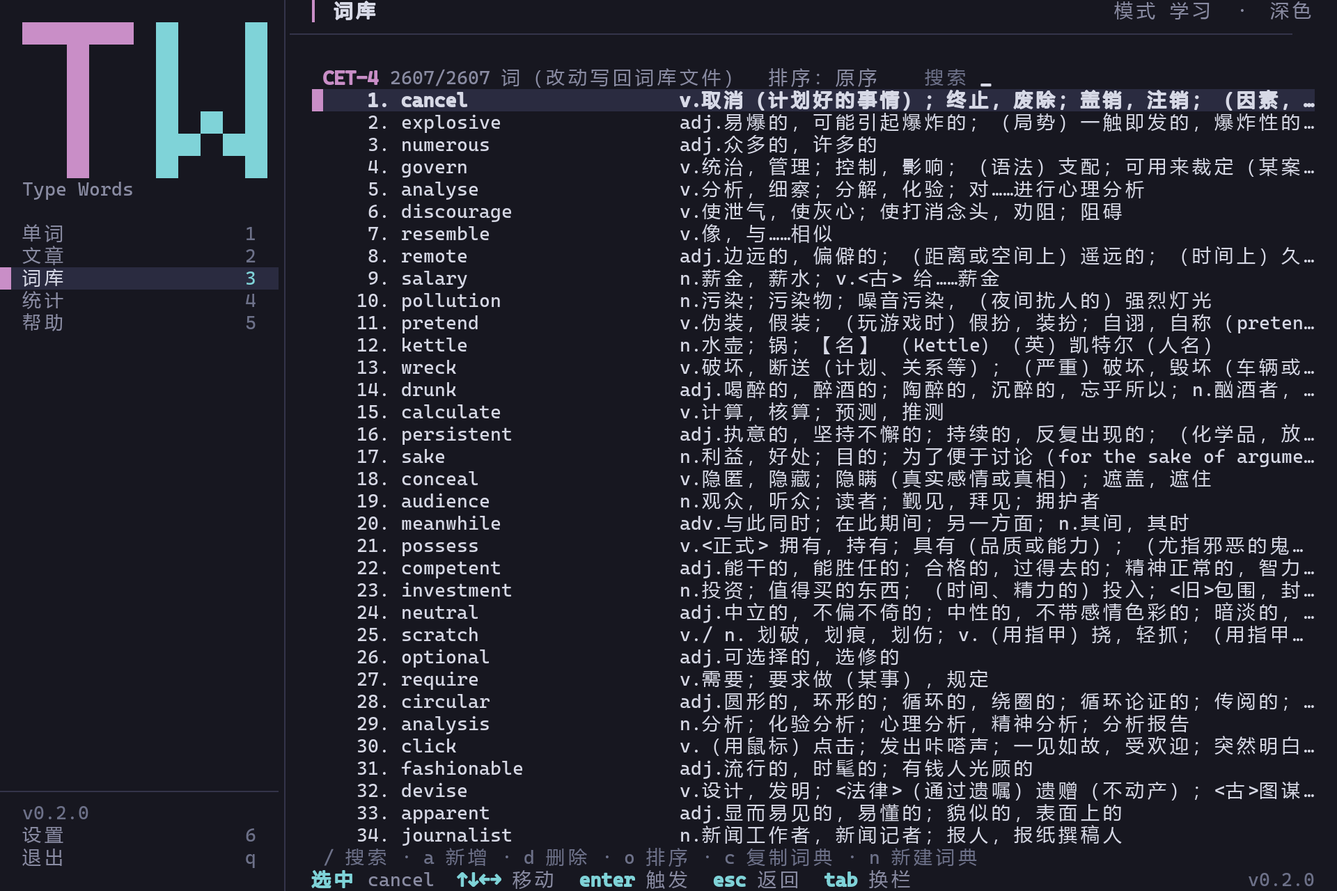
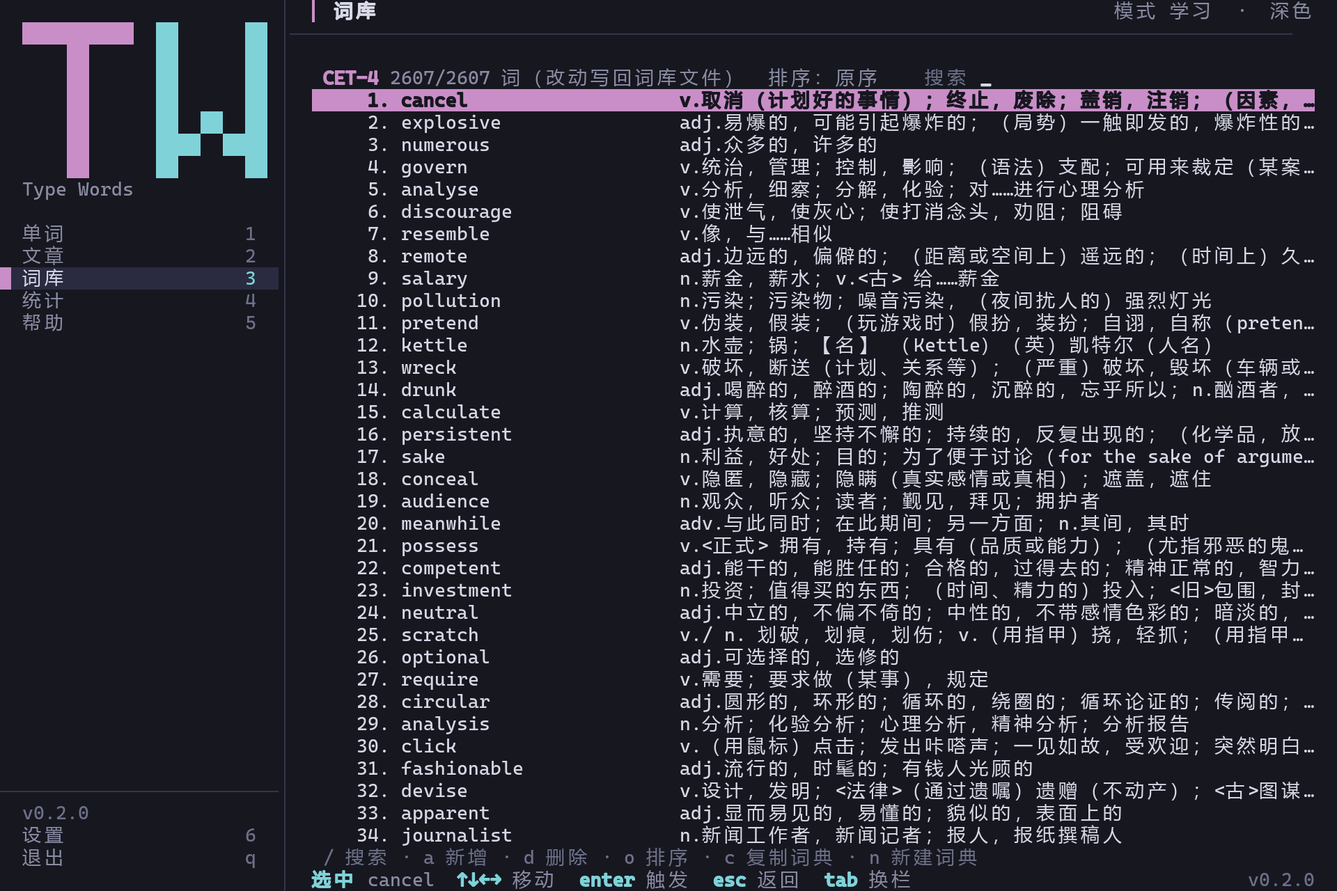
fix(tui): 页面内容区的当前选中项也整块高亮
上一版把所有标签页的焦点接进同一套两栏模型后，accent 整块高亮仍只在
导航栏与主页内容区生效；文章、词库等页面的选中行只有 ▶ 标记或很淡的
selection 底色（高对比主题下 selection 与背景同色），切过去看不出「当前
选中」是哪一个。

- ui::focus::focused_rect 对 FocusId::Page 改为返回页面当前选中项矩形：
  新增 page_selection_rect，按各页 layout 与页面光标解析词库行、设置行、
  文章 / 书本行、词条行、流程行、快捷键行、日历选中日（含记录点）。
- 高亮仍由 ui::mod 的 focus::paint 统一绘制，因此与主页 / 导航栏是同一套
  accent 底 + 反色文字；滚动、分栏、窗口缩放后矩形随 layout 重算，不会
  漂移。焦点进导航栏时页面高亮让位，页面自己的行标记 / 光标保留。
- 测试：focus_nav 增加页面行高亮与统计日期高亮断言（48 条），articles
  增加文章 / 书本行高亮与切栏跟随（22 条）；共 338 个测试。
- 文档与截图：usage / ui / development / README 同步「当前选中项一律整块
  强调色高亮」；受影响的 dict / articles / settings / stats / shortcuts /
  words / flows 截图重新生成。

验证：cargo fmt --all --check、cargo clippy --all-targets --locked -- -D
warnings、cargo test --locked 全绿。

Changed region(s): [[0.2188, 0.0938, 1.0, 0.125]]

diff --git a/src/ui/focus.rs b/src/ui/focus.rs
@@ -198,9 +198,116 @@ pub fn focused_target(app: &App, area: Rect) -> Option<Target> {
 }
 
 /// 当前焦点对应的矩形（用于整块高亮）。
+///
+/// 导航栏与主页内容区取目标自身的矩形；其它页面取「页面当前选中项」的
+/// 矩形（词库行 / 设置行 / 文章 / 书本行 / 词条行 / 流程行 / 快捷键行 /
+/// 日历日期），同样用整块 accent 高亮，与主页保持同一套选中语言。
 pub fn focused_rect(app: &App, area: Rect) -> Option<Rect> {
     pane(app)?;
-    focused_target(app, area).map(|target| target.rect)
+    match app.focus? {
+        FocusId::Page => page_selection_rect(app, area),
+        _ => focused_target(app, area).map(|target| target.rect),
+    }
+}
+
+/// 非主页内容区的选中项矩形；页面没有可高亮的选中项（帮助页 / 按词典
+/// 视图）时返回 None。
+///
+/// 绘制用的行矩形统一由各页面的 layout 计算，和 targets / 渲染同源，
+/// 因此高亮不会随滚动或分栏变化而漂移。
+fn page_selection_rect(app: &App, area: Rect) -> Option<Rect> {
+    let shell = shell::layout(area, Nav::from_screen(app.screen));
+    let content = shell.content;
+    match app.screen {
+        Screen::DictPicker => {
+            let layout = crate::ui::dict_picker::layout(app, content);
+            let (_, rect) = layout
+                .rows
+                .iter()
+                .find(|(index, _)| *index == app.dict_cursor)?;
+            Some(row_rect(*rect, 1))
+        }
+        Screen::Settings => {
+            let layout = crate::ui::settings::layout(app, content);
+            let (_, rect) = layout
+                .rows
+                .iter()
+                .find(|(entry, _)| *entry == Some(app.settings_cursor))?;
+            Some(row_rect(*rect, 1))
+        }
+        Screen::Shortcuts => {
+            let layout = crate::ui::shortcuts::layout(app, content);
+            let (_, rect) = layout
+                .rows
+                .iter()
+                .find(|(index, _)| *index == app.shortcut_cursor)?;
+            Some(*rect)
+        }
+        Screen::Words => {
+            let layout = crate::ui::words::layout(app, content);
+            let total = app.filtered_word_indices().len();
+            if total == 0 || app.words_cursor >= total || layout.list.height == 0 {
+                return None;
+            }
+            let row = app.words_cursor.saturating_sub(layout.offset) as u16;
+            let y = layout.list.y.saturating_add(row);
+            (y < layout.list.bottom()).then(|| Rect::new(layout.list.x, y, layout.list.width, 1))
+        }
+        Screen::Flows => {
+            let layout = crate::ui::flows::layout(app, content);
+            if app.flow_cursor >= app.flow_entries().len() || layout.list.height == 0 {
+                return None;
+            }
+            let y = layout.list.y.saturating_add(app.flow_cursor as u16);
+            (y < layout.list.bottom()).then(|| Rect::new(layout.list.x, y, layout.list.width, 1))
+        }
+        Screen::Articles => {
+            let layout = crate::ui::articles::layout(content);
+            let (pane, cursor, count) = if app.article_pane_left {
+                (
+                    layout.books,
+                    app.article_book_cursor,
+                    app.article_books.len(),
+                )
+            } else {
+                (layout.articles, app.article_cursor, app.article_list.len())
+            };
+            if count == 0 || cursor >= count || pane.width < 2 || pane.height < 3 {
+                return None;
+            }
+            // 列表有边框：行从边框内侧开始，最后一行同样让出下边框。
+            let y = pane.y.saturating_add(1).saturating_add(cursor as u16);
+            if y >= pane.bottom().saturating_sub(1) {
+                return None;
+            }
+            Some(Rect::new(
+                pane.x.saturating_add(1),
+                y,
+                pane.width.saturating_sub(2),
+                1,
+            ))
+        }
+        Screen::Stats => {
+            // 按词典视图没有日历选中项；日历视图高亮选中那一天（含记录点）。
+            if app.stats_by_dict {
+                return None;
+            }
+            let target = crate::ui::stats::targets(app, content)
+                .into_iter()
+                .find(|target| match &target.action {
+                    Action::StatsSelectDay(date) => *date == app.stats_day,
+                    _ => false,
+                })?;
+            let width = 5.min(content.right().saturating_sub(target.rect.x));
+            (width > 0).then(|| Rect::new(target.rect.x, target.rect.y, width, 1))
+        }
+        _ => None,
+    }
+}
+
+/// 缩到行内、并让出右侧的滚动指示列（词库页 / 设置页用）。
+fn row_rect(rect: Rect, reserved_right: u16) -> Rect {
+    Rect::new(rect.x, rect.y, rect.width.saturating_sub(reserved_right), 1)
 }
 
 /// 当前焦点的提示文案（底栏「选中 X」）。

diff --git a/tests/focus_nav.rs b/tests/focus_nav.rs
@@ -850,6 +850,15 @@ fn stats_arrows_scroll_and_pick_dates() {
     let (_fixture, mut app) = test_app(WIDE);
     press(&mut app, KeyCode::Char('4'));
     assert_eq!(focus::pane(&app), Some(Pane::Content));
+    // 日历里选中的那一天同样有整块高亮。
+    let theme = app.theme();
+    let day_rect = focus::focused_rect(&app, app.viewport).expect("日历选中日应有高亮矩形");
+    let buffer = buffer_of(&app, WIDE);
+    assert_eq!(
+        buffer.cell((day_rect.x, day_rect.y)).expect("cell").bg,
+        theme.accent,
+        "日历选中日应整块 accent 高亮"
+    );
     let max_scroll = typewords_tui::ui::stats::body_line_count(&app).saturating_sub(1) as u16;
     assert!(max_scroll >= 1);
     press(&mut app, KeyCode::Down);
@@ -974,6 +983,42 @@ fn mouse_click_on_page_syncs_focus() {
         app.viewport,
     );
     assert_eq!(focus::pane(&app), Some(Pane::Nav));
+}
+
+/// 非主页的页面内容区：当前选中行同样用整块 accent 高亮；焦点进导航栏后
+/// 页面行让位给导航项，回到内容区再恢复。
+#[test]
+fn page_focus_highlights_the_selected_row() {
+    for key in [KeyCode::Char('3'), KeyCode::Char('s')] {
+        let (_fixture, mut app) = test_app(WIDE);
+        press(&mut app, key);
+        let theme = app.theme();
+        let rect = focus::focused_rect(&app, app.viewport).expect("页面选中行应有高亮矩形");
+        let buffer = buffer_of(&app, WIDE);
+        let mut previous_width = 1usize;
+        for x in rect.x..rect.right() {
+            if previous_width == 2 {
+                // CJK 宽字符的续接单元由前一个宽字形覆盖，测试后端保留默认样式。
+                previous_width = 1;
+                continue;
+            }
+            let cell = buffer.cell((x, rect.y)).expect("cell");
+            previous_width = UnicodeWidthStr::width(cell.symbol());
+            assert_eq!(
+                cell.bg, theme.accent,
+                "{key:?} 页面选中行应整块 accent 高亮（x={x}）"
+            );
+        }
+
+        press(&mut app, KeyCode::Tab);
+        assert_eq!(focus::pane(&app), Some(Pane::Nav));
+        let buffer = buffer_of(&app, WIDE);
+        let cell = buffer.cell((rect.x + 1, rect.y)).expect("cell");
+        assert_ne!(
+            cell.bg, theme.accent,
+            "{key:?} 导航栏聚焦时页面行不应继续整块高亮"
+        );
+    }
 }
 
 /// 帮助页的「任意键返回」仍然优先：不在练习中时按数字键也返回，不切页。

diff --git a/tests/articles.rs b/tests/articles.rs
@@ -6,6 +6,7 @@ use ratatui::Terminal;
 use ratatui::backend::TestBackend;
 use ratatui::buffer::Buffer;
 use ratatui::crossterm::event::{KeyCode, KeyEvent, KeyModifiers};
+use ratatui::layout::Rect;
 use ratatui::style::Modifier;
 use typewords_tui::app;
 use unicode_width::UnicodeWidthStr;
@@ -169,6 +170,45 @@ fn install_article_assets(assets_root: &std::path::Path) {
             .join("NCE_1.json"),
     )
     .expect("复制文章资源");
+}
+
+/// 文章页的选中行要有可见高亮：书本栏选中整块 accent，切到文章栏后
+/// 高亮跟着移动到右侧。
+#[test]
+fn the_selected_row_is_highlighted_on_the_articles_page() {
+    let fixture = common::Fixture::new();
+    install_article_assets(&fixture.assets());
+    let mut app = app::build_for_test(fixture.paths(), fixture.cli()).unwrap();
+    app.set_viewport(Rect::new(0, 0, 120, 40));
+    press(&mut app, KeyCode::Char('a'));
+    assert_eq!(app.screen, app::Screen::Articles);
+
+    let theme = app.theme();
+    let book_rect = typewords_tui::ui::focus::focused_rect(&app, app.viewport)
+        .expect("书本栏选中行应有高亮矩形");
+    let buffer = render_buffer(&app, 120, 40);
+    let mut previous_width = 1usize;
+    for x in book_rect.x..book_rect.right() {
+        if previous_width == 2 {
+            // CJK 宽字符的续接单元由前一个宽字形覆盖，测试后端保留默认样式。
+            previous_width = 1;
+            continue;
+        }
+        let cell = buffer.cell((x, book_rect.y)).expect("cell");
+        previous_width = UnicodeWidthStr::width(cell.symbol());
+        assert_eq!(
+            cell.bg, theme.accent,
+            "书本栏选中行应整块 accent 高亮（x={x}）"
+        );
+    }
+
+    press(&mut app, KeyCode::Right);
+    let article_rect = typewords_tui::ui::focus::focused_rect(&app, app.viewport)
+        .expect("文章栏选中行应有高亮矩形");
+    assert!(
+        article_rect.x >= book_rect.right(),
+        "切到文章栏后高亮应移到右侧：{article_rect:?} vs {book_rect:?}"
+    );
 }
 
 #[test]

diff --git a/docs/ui.md b/docs/ui.md
@@ -145,7 +145,7 @@ ui::render(app, frame)
 
 - **适用范围**：主页、文章、词库、统计、设置、词条管理、流程、快捷键、帮助九类页面共用同一套两栏焦点；练习页与文章跟打页是全屏页面，不画侧栏，不参与；单词测试页是专用答题页，键位由键位表单独处理（`ui::focus::supports_focus` 决定）。练习会话进行中（含练习里打开的整屏帮助）、有弹层、词条搜索框正在输入时，焦点导航整体让位。
 - **焦点身份**：`App.focus: Option<ui::focus::FocusId>`。`FocusId::Nav(NavId)` 是导航栏条目；`FocusId::Content(ContentId)` 是主页内容区的 8 个固定元素；`FocusId::Page` 是其它页面的内容区——页面自己的光标（词库行、设置行、文章 / 书本行、词条行、流程行、快捷键行、日历日期、滚动位置）就是身份，由页面状态保存，不需要再存下标。`App.last_content_focus: Option<ContentId>` 只服务主页内容区。导航栏含宽屏底部「退出」（`NavId::Quit`），窄屏顶栏没有这一项。身份定义在 `src/ui/target.rs`，解析与移动规则在 `src/ui/focus.rs`，状态迁移在 `src/app/focus.rs`。
-- **目标来源**：两栏都与鼠标命中同源。`ui::focus::nav_targets` 取 `shell::layout` 的 `nav_targets`（`Nav::MAIN` + 设置）再追加 `quit_target`（宽屏「退出」）；`ui::focus::content_targets` 取 `ui::home::targets(app, shell.content)` 的 8 项，每项都带 `ContentId` 与中文 `label`。其它页面的内容区没有独立矩形，选中效果由页面自己的行高亮 / 光标提供。
+- **目标来源**：两栏都与鼠标命中同源。`ui::focus::nav_targets` 取 `shell::layout` 的 `nav_targets`（`Nav::MAIN` + 设置）再追加 `quit_target`（宽屏「退出」）；`ui::focus::content_targets` 取 `ui::home::targets(app, shell.content)` 的 8 项，每项都带 `ContentId` 与中文 `label`。其它页面的内容区不注册逐行身份：`ui::focus::page_selection_rect` 按页面自己的光标与 layout 直接解析当前选中项的矩形，所以高亮与滚动、分栏、窗口尺寸同源。
 - **默认选中**：`App::set_screen` 是所有切屏路径的唯一入口（导航、返回、结算、退出练习……），切屏时清空旧焦点并按目标页调用 `App::focus_default`：主页选中 `ContentId::Start`（开始 / 继续学习）；其它套外壳页面选中 `FocusId::Page`（页面自己的内容区）；练习页 / 文章跟打页 / 单词测试页保持无焦点。因此进入任何标签页后方向键都立刻作用在页面内容上，底栏显示「选中 X」，再按 `←` / `Tab` 才进导航栏。
 - **统一的键 × 栏 × 结果**（宽屏指 `>= 100` 列；到边停、不回绕；有弹层时方向键属于弹层）：
 
@@ -162,7 +162,7 @@ ui::render(app, frame)
 - **跨栏只发生在到边之后**：`App::move_focus` 先尝试栏内移动，返回 `None`（该方向没有目标）才判断是否换栏——宽屏内容区 `←`、窄屏内容区 `↑` 进导航栏，宽屏侧栏 `→`、窄屏顶栏 `↓` 回内容区；其余方向到边就停。回内容区时主页恢复 `last_content_focus`（仍存在时），否则落「开始 / 继续学习」；其它页面恢复页面自己的光标（页面状态本来就在）。进导航栏落当前页面对应的入口（例如词库页落「词库」），找不到则第一项。`Tab` / `Shift+Tab` 在任何套外壳页面都能直接换栏，给统计这类横向键被页面占用的页面留一条固定通路。
 - **为什么不用固定顺序**：早期按「动作优先级」排序并回绕（到头绕回另一端），移动顺序与画面方向无关——`↓` 会从右下角跳回右上角，跨栏后还会清空选中。现在顺序由几何与页面光标决定、到边停。
 - **失效与触发**：导航栏与主页内容区的 `Enter` 按当前 `viewport` 重新解析身份；解析不到（窗口缩放后元素消失、模式名变长把标签挤掉）只清空焦点并 Toast「选中项已随布局变化失效，请重新选择」，绝不回退成开始练习。`FocusId::Page` 不依赖几何，页面光标始终有效。焦点元素的 `Action` 就是鼠标点击同一个 `Target` 会执行的 `Action`；落在导航栏当前页入口上时给 Info Toast「已在「X」页」，避免「按了没反应」。其它页面 `Enter` 走页面自己的激活逻辑（词库设为当前、设置修改、文章开始跟打、词条编辑、快捷键改绑、流程启用、统计切视图、帮助返回）。
-- **高亮**：`ui::focus::paint` 把导航栏目标的整个矩形铺成 `accent` 底 + `bg` 文字 + 加粗，画在页面内容之上、弹层遮罩之下；主页内容区同样是整块 `accent`。其它页面的内容区选中效果由页面自己的行高亮 / 光标提供（`selection` 底、`▶` 标记、日历选中日），不再叠加一层焦点色块，避免盖住行内的颜色语义。侧栏「当前页」用 `selection` 底 + 左侧 1 列 `accent` 条，与焦点高亮可以同屏共存。
+- **高亮**：`ui::focus::paint` 把当前焦点目标的整个矩形铺成 `accent` 底 + `bg` 文字 + 加粗，画在页面内容之上、弹层遮罩之下。导航栏、主页内容区、以及其它页面内容区的当前选中项（词库行 / 设置行 / 文章或书本行 / 词条行 / 流程行 / 快捷键行 / 日历选中日）都走这同一套高亮；焦点进导航栏时页面行让位给导航项，页面自己的行高亮 / 光标仍在底下可见。侧栏「当前页」用 `selection` 底 + 左侧 1 列 `accent` 条，与焦点高亮可以同屏共存。
 - **底栏联动**：`ui::focus::focused_label` 返回 `String`：导航栏取页面名，主页取按钮名（`Target.label`），其它页面取页面当前选中项（词库名 / 设置项名 / 文章标题 / 词条 / 流程名 / 快捷键动作名 / 统计日期 / 「帮助」）。有焦点时 `shell::focus_hints` 把底栏换成「选中 {label}  ↑↓←→ 移动  enter 触发 / 切换  esc 取消 / 返回  tab 换栏」（`tab` 在末尾，底栏太窄时先被丢弃）；无焦点时恢复常规快捷键提示。开始按钮的 `label` 与按钮文案统一由 `home::primary_label` 决定（有断点缓存或已学词时都是「继续学习」）。
 - **Esc 的语义**：主页 `Esc` 取消选中回到「无焦点」；其它页面 `Esc` 是返回上一层（与改造前一致），导航栏焦点上按 `Esc` 同样返回。
 - **鼠标**：点击导航栏会把焦点同步到对应导航项；点击内容区会把焦点交给页面内容区（`FocusId::Page`）；主页点击可聚焦元素还会写 `last_content_focus`，点空白清空焦点。见第 11 节。
@@ -269,7 +269,7 @@ ui::render(app, frame)
 - 内容宽度 `>= DETAIL_MIN_WIDTH(72)` 时左右分栏：列表占 58%，之后 1 列分隔线，右侧详情；否则只画列表。
 - 列表从标题下空一行开始；`scroll_offset = cursor.min(total-1).saturating_sub(visible-1)`，保证光标在可视区内。行首标记：当前词库 `●`（`accent`）、选中 `▶`（`accent_alt`）；名称后可选显示 id（`name_space >= 18 && inner_width >= 40`），右侧是 6/4 格细进度条、`N 词`、百分比；列表被裁切时最右列画 `↑`/`↓`。
 - 详情面板：名称（当前带 `●`）、id · 分类、简介折行、标签、词数、进度条、每日词数说明（当前/已拥有/未拥有三种文案），底部「Enter 设为当前」按钮（内宽 `>= 12` 且内高 `>= 2` 才画）。
-- `targets`：每个可见行一个 target——光标所在行是 `ActivateDict(index)`，其它行是 `SelectDict(index)`（第一次点击选中、再次点击激活）；按钮是 `ActivateDict(dict_cursor)`。截图见 [词库页](screenshots/dict-120x40-dark.png)。
+- `targets`：每个可见行一个 target——光标所在行是 `ActivateDict(index)`，其它行是 `SelectDict(index)`（第一次点击选中、再次点击激活）；按钮是 `ActivateDict(dict_cursor)`。键盘焦点在内容区时，光标行由 `ui::focus::page_selection_rect` 解析成整块 `accent` 高亮（与主页一致）；焦点在侧栏时恢复页面自己的 `selection` 底 + 左侧强调条。截图见 [词库页](screenshots/dict-120x40-dark.png)。
 
 ### 8.2 统计页（stats.rs）
 
@@ -293,7 +293,7 @@ ui::render(app, frame)
 
 ### 8.5 文章背诵页与跟打页（articles.rs）
 
-- 列表页（`render_articles`）套外壳（`Nav::Articles`）：左「书本」、右「文章」两栏（38% / 其余，右栏至少 20 列），行首 `▶` 为选中项；文章行显示标题、句数与断点标记「· 上次第 N 句」（`accent_alt`）。`targets` 给两个列表的可见行注册点击目标，滚轮映射为 `ArticleBookMove`。键盘焦点进页在内容区（左栏书本）：`↑`/`↓` 选书本、`→` 切到文章栏、`←` 从文章栏回书本栏（已在左栏再按 `←` 进侧栏），`Enter` 开始选中的文章；`Tab` 是导航栏 ↔ 内容区换栏。
+- 列表页（`render_articles`）套外壳（`Nav::Articles`）：左「书本」、右「文章」两栏（38% / 其余，右栏至少 20 列），行首 `▶` 为选中项；文章行显示标题、句数与断点标记「· 上次第 N 句」（`accent_alt`）。`targets` 给两个列表的可见行注册点击目标，滚轮映射为 `ArticleBookMove`。键盘焦点进页在内容区（左栏书本）：`↑`/`↓` 选书本、`→` 切到文章栏、`←` 从文章栏回书本栏（已在左栏再按 `←` 进侧栏），`Enter` 开始选中的文章；`Tab` 是导航栏 ↔ 内容区换栏。当前栏的选中行由 `ui::focus::page_selection_rect` 整块 `accent` 高亮，切栏时高亮跟着移动；另一个栏的 `▶` 只表示它自己的光标位置。
 - 跟打页（`render_article_practice`）全屏、不套外壳，纵向分四段：状态行（标题 `accent` + 第 N/M 句 + 已完成 / 错误 / 用时；错误数把当前句已出现的错误也算进去）、「跟打」区块、「当前句译文」区块、两行提示。`article_lines` 把整篇文章按段落折行成同一页的行列表（段落之间空一行），`cursor_line` 找出光标所在行，视口据此滚动；`offset` 只在渲染期计算，不写 `App` 状态。
 - 逐字符着色：非跟打字符（标点、符号与多余空白）在当前句用 `dim`、已完成句用 `muted`、未来句用 `fg`；词间空格是可选目标，光标会停在待输入的空格上，但直接打下一个字母也不算错；当前句里已输入且正确的字符 `good`，打错的字符 `bad` 并显示实际按下的字符——错误只会出现在字母 / 数字位置（省略空格时自动补成正确输入，不再有「空格处错字」与下划线样式，渲染里也不再有 `Modifier::UNDERLINED` 分支）；光标位置（第一个未输入字符）用 `selection` 背景 + BOLD；当前句首行行首是 `▶ `（`accent`）标记，其它行补两个空格对齐。`article_lines` 折行时行尾空格直接丢掉：空格可省略且总按正确输入显示，折掉不会藏起错误标记。
 - 底部第一行平时提示「 字母、数字照打 · 空格可省略 · 标点不用打 · Backspace 退格」（`dim`；58 列，60 列最小终端下可完整显示）；本句出现过错误时换成「 红色 = 打错的字符 · Backspace 改正」（`warn`）。该页不注册鼠标目标，只用键盘。截图见 [文章跟打](screenshots/articlepractice-120x40-dark.png)。

diff --git a/docs/usage.md b/docs/usage.md
@@ -215,7 +215,7 @@ tw --seed 42 --reset-practice       # 复现问题时清掉断点缓存
     - **宽屏侧栏**：`↑` / `↓` 逐项选择（含底部「退出」），`→` 回内容区。**窄屏顶栏**：`←` / `→` 逐标签选择，`↓` 回内容区。跨栏时页面自己的光标原样保留；主页会恢复上次在内容区选中的元素。
     - **没有选中时**（仅主页：按 `Esc` 或点击空白取消选中后）：`↓` / `→` 落在「开始 / 继续学习」，`↑` / `←` 进导航栏。
     - `Enter` 触发选中项（等同鼠标点击；主页没有选中时仍是开始 / 继续学习）。导航栏与主页的选中项随窗口缩放失效（按钮消失、模式名变长把标签挤掉）时，`Enter` 只清空选中并提示，不会开始练习；`Esc` 在主页取消选中，在其它页面返回上一层。
-    - 底栏在有选中时换成「选中 X  ↑↓←→ 移动  enter 触发 / 切换  esc 取消 / 返回  tab 换栏」；导航栏与主页内容区用整块强调色高亮，其它页面沿用页面自己的行高亮 / 光标。
+    - 底栏在有选中时换成「选中 X  ↑↓←→ 移动  enter 触发 / 切换  esc 取消 / 返回  tab 换栏」；当前选中项一律用整块强调色高亮（导航栏、主页按钮、词库行、设置行、文章行、日历日期……）。焦点进导航栏时高亮在导航项上，页面原来的行标记 / 光标仍保留。
     - 鼠标点击导航栏或内容区会把键盘选中同步过去（主页点空白清空选中）。
 
 窗口高度不足时依次收起「推荐」「我的词典」；宽度不足时隐藏「本周学习记录」。
@@ -576,7 +576,7 @@ tw --seed 42 --reset-practice       # 复现问题时清掉断点缓存
 - **滚轮**：词库页 / 设置页移动光标，统计页滚动最近记录，帮助页滚动快捷键列表，词条管理页 / 快捷键页 / 流程页 / 文章页滚动列表；练习页与主页忽略滚轮。
 - **弹层**：模式选择、收藏到指定词典、词条编辑三个弹层可点列表项（点弹层外不关闭）；确认弹层点击按钮生效、点击弹层外取消；输入弹层点击弹层外取消（内部点击无动作，用 `Enter` / `Esc`）；结算弹层只响应三个按钮。
 - **帮助页**：正文只读，点击内容区不会退出页面；右侧的 `↑` / `↓` 指示器可点，点了是滚动。返回用 `Esc` 或其它键盘按键（练习中回练习页，其它页面回主页），也可以点侧栏 / 顶栏导航切页。
-- **键盘焦点**：所有左侧标签页（主页 / 文章 / 词库 / 统计 / 设置 / 词条 / 流程 / 快捷键 / 帮助）共用两栏焦点。宽屏是「左侧导航栏 ↔ 右侧内容区」，导航栏竖向（`↑` / `↓` 选项、`→` 回内容区）；窄屏没有侧栏，导航栏就是顶栏的页面标签，横向（`←` / `→` 选标签、`↓` 回内容区）。`Tab` / `Shift+Tab` 在任何页面都能换栏。内容区里 `↑` / `↓` 移动页面自己的光标（主页按视觉行带），`←` / `→` 执行页面横向操作（文章页换栏、统计页选日期），没有横向操作或到左边缘时 `←` 进导航栏。进入任何标签页都默认选中内容区（主页是「开始 / 继续学习」），底栏显示「选中 X」；`Enter` 触发、`Esc` 在主页取消选中 / 在其它页面返回。主页与导航栏的选中项用整块强调色高亮，其它页面沿用页面自己的行高亮；到边不回绕，导航栏与主页的选中项因窗口缩放失效时 `Enter` 只清空并提示。完整规则见「界面导览 · 主页 → 键盘焦点」。
+- **键盘焦点**：所有左侧标签页（主页 / 文章 / 词库 / 统计 / 设置 / 词条 / 流程 / 快捷键 / 帮助）共用两栏焦点。宽屏是「左侧导航栏 ↔ 右侧内容区」，导航栏竖向（`↑` / `↓` 选项、`→` 回内容区）；窄屏没有侧栏，导航栏就是顶栏的页面标签，横向（`←` / `→` 选标签、`↓` 回内容区）。`Tab` / `Shift+Tab` 在任何页面都能换栏。内容区里 `↑` / `↓` 移动页面自己的光标（主页按视觉行带），`←` / `→` 执行页面横向操作（文章页换栏、统计页选日期），没有横向操作或到左边缘时 `←` 进导航栏。进入任何标签页都默认选中内容区（主页是「开始 / 继续学习」），底栏显示「选中 X」；`Enter` 触发、`Esc` 在主页取消选中 / 在其它页面返回。当前选中项一律用整块强调色高亮（导航栏 / 主页按钮 / 页面行 / 日历日期），焦点在导航栏时高亮随焦移动；到边不回绕，导航栏与主页的选中项因窗口缩放失效时 `Enter` 只清空并提示。完整规则见「界面导览 · 主页 → 键盘焦点」。
 - **鼠标与键盘焦点**：点击导航栏会把键盘选中同步到对应项；点击内容区会把焦点交给页面内容区（主页还会同步到具体按钮 / 卡片，再按 `Enter` 就是重复这次点击），点主页空白处则清空选中。切页时焦点按新页面重置：主页默认选中主按钮，其它标签页默认选中页面内容区。
 
 注意：

diff --git a/docs/development.md b/docs/development.md
@@ -48,7 +48,7 @@ cargo build --release --locked    # target/release/tw(.exe)
 
 ## 4. 测试体系
 
-当前共 **336 个测试**：93 个单元测试 + 243 个集成测试。全部通过是提交的最低要求；数量随测试增删变化，可用 `cargo test --locked -- --list` 复核。
+当前共 **338 个测试**：93 个单元测试 + 245 个集成测试。全部通过是提交的最低要求；数量随测试增删变化，可用 `cargo test --locked -- --list` 复核。
 
 ### 4.1 单元测试（模块内 `#[cfg(test)]`）
 
@@ -80,8 +80,8 @@ cargo build --release --locked    # target/release/tw(.exe)
 | --- | --- | --- |
 | `tests/app_drive.rs` | 51 | 用合成按键/鼠标驱动 `App`：开始练习与键入推进、Tab 跳过、断点恢复、设置保存、大字开关、错词收录、退出确认、自由练习不改设置、每日词数持久化、数字键切页、鼠标（主页开始/侧栏导航/滚轮/弹层内外点击/结算按钮）、自定义主题循环与渲染、`--theme` 覆盖、setting 版本过高只读、自定义重复次数、跨天统计去重 |
 | `tests/interaction_fixes.rs` | 27 | 已修复交互缺陷的回归：三个弹层的鼠标命中、主页 `+`/`-` 的像素对齐、滚动指示器不被行 target 抢走、命中矩形与渲染一致 |
-| `tests/focus_nav.rs` | 47 | 所有标签页的键盘焦点：启动/回主页默认选中主按钮（首帧高亮与底栏）、无焦点落点、主页内容区换带不反向与带内左右、每个标签页落地选中内容区、`Tab`/`←`/`↑` 换栏与跨栏、词库/设置/统计/帮助页各自的页面光标移动、弹层与搜索框让位、resize 让焦点失效时不触发动作、底栏文案、高亮矩形、最小终端忽略按键、鼠标点击同步焦点 |
-| `tests/articles.rs` | 21 | 书本/文章列表、断句与整篇跟打（空格可省略、错字落位、文章结算口径） |
+| `tests/focus_nav.rs` | 48 | 所有标签页的键盘焦点：启动/回主页默认选中主按钮（首帧高亮与底栏）、无焦点落点、主页内容区换带不反向与带内左右、每个标签页落地选中内容区、`Tab`/`←`/`↑` 换栏与跨栏、词库/设置/统计/帮助页各自的页面光标移动、弹层与搜索框让位、resize 让焦点失效时不触发动作、底栏文案、高亮矩形、最小终端忽略按键、鼠标点击同步焦点 |
+| `tests/articles.rs` | 22 | 书本/文章列表、断句与整篇跟打（空格可省略、错字落位、文章结算口径） |
 | `tests/ui_snapshots.rs` | 19 | TestBackend 渲染：主页/练习大字/默写占位/全部屏幕/终端过小/60×20 紧凑布局/CJK 宽度/正确输入着色/三套主题/弹层/鼠标命中区域与渲染文本一致/关闭使用提示后提示行消失 |
 | `tests/resume_cache.rs` | 13 | 启动固定停在主页、单词与文章断点续练、两份缓存不叠加、结算只清本轮自己的缓存 |
 | `tests/words_manage.rs` | 11 | 词条管理页：搜索、编辑、批量标记与自定义词典 |

diff --git a/README.md b/README.md
@@ -99,7 +99,7 @@ tw task     # 只预览今日任务，不进入界面
 | 场景 | 按键 |
 | --- | --- |
 | 主页 | `Enter` 开始 / 继续学习、`f` 自由练习、`d` 词库、`s` 设置、`t` 统计、`m` 选择练习模式、`a` 文章、`Ctrl+F` 练习流程、`+`/`-` 每日词数 ±5、`?` 帮助、`q` 退出（需确认） |
-| 所有标签页方向键 | `↑`/`↓`（`j`/`k`）在当前栏移动选中；`←`/`→` 执行页面横向操作（主页同一行带内左右、文章页换栏、统计页选日期），宽屏内容区左边缘再 `←` 进侧栏、导航栏 `→` 回内容区；窄屏内容区最顶部 `↑` 进顶栏、顶栏 `↓` 回内容区；`Tab`/`Shift+Tab` 随时换栏；进入任何标签页默认选中内容区（主页是「开始 / 继续学习」，底栏显示选中项）；`Enter` 触发、`Esc` 在主页取消选中 / 在其它页面返回；到边停、不回绕 |
+| 所有标签页方向键 | `↑`/`↓`（`j`/`k`）在当前栏移动选中；`←`/`→` 执行页面横向操作（主页同一行带内左右、文章页换栏、统计页选日期），宽屏内容区左边缘再 `←` 进侧栏、导航栏 `→` 回内容区；窄屏内容区最顶部 `↑` 进顶栏、顶栏 `↓` 回内容区；`Tab`/`Shift+Tab` 随时换栏；进入任何标签页默认选中内容区（主页是「开始 / 继续学习」，底栏显示选中项，当前选中项整块强调色高亮，页面行 / 日历日期也一样）；`Enter` 触发、`Esc` 在主页取消选中 / 在其它页面返回；到边停、不回绕 |
 | 练习页 | 字母/空格/退格输入；`空格` 确认/继续；`Esc` 显示完整单词；`Tab` 跳过当前词；`Enter` 收藏；反引号标记已掌握；`Ctrl+Z` 翻译、`Ctrl+I` 默写遮罩、`Ctrl+,` 暂停计时、`Ctrl+P` 朗读当前词、`Ctrl+L` 词表侧栏、`Ctrl+E` 例句/词源、`Ctrl+Enter` 重学本组、`Alt+←`/`Alt+→` 上下组、`Ctrl+C` 保存并返回；自测用 `1`/`2`/`3`，选择题用 `Alt+1`~`Alt+4` |
 | 词库 / 统计 / 设置 / 帮助 | 共用上面的两栏焦点键；`Enter` 激活（统计页切换视图、帮助页返回），`Esc`/`q` 返回；设置页 `Space` 与 `Enter` 同效，统计页 `,`/`.` 翻月、`PgUp`/`PgDn` 翻页 |
 | 弹层 | 确认：`Enter`/`y`；结算：`Enter`/`Space` 继续（文章结算为返回文章列表）、`r` 重学（文章结算为重打本篇）、`q`/`Esc` 回主页；输入：`Enter` 保存、`Esc` 取消 |
